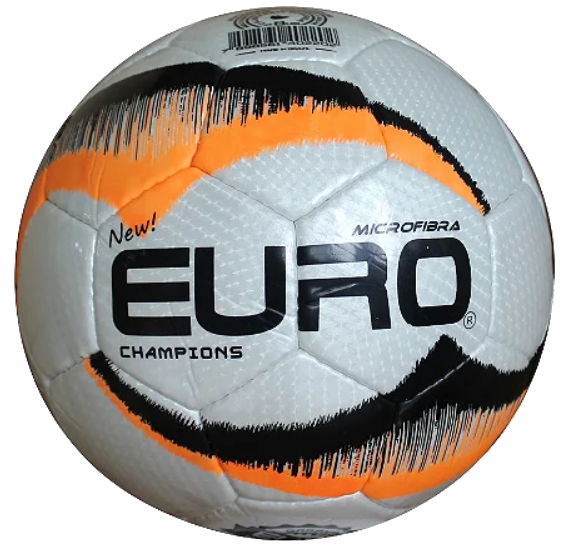
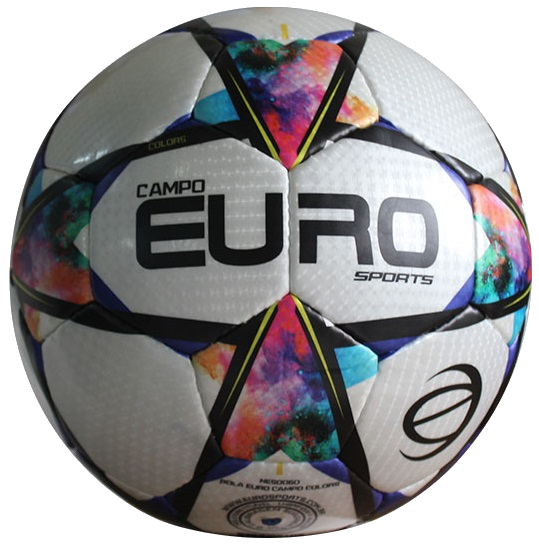
feature: update balls

diff --git a/src/data/data.js b/src/data/data.js
@@ -1,11 +1,11 @@
-import a1 from "../assets/images/EuroPro/a1.png";
 import l1 from "../assets/images/EuroPro/l1.png";
 import l3 from "../assets/images/EuroPro/l3.png";
 import r1 from "../assets/images/EuroPro/r1.png";
 import r2 from "../assets/images/EuroPro/r2.png";
 import v1 from "../assets/images/EuroPro/v1.png";
 import v2 from "../assets/images/EuroPro/v2.png";
-import micro from "../assets/images/EuroFibra/micro1.png";
+import micro1 from "../assets/images/EuroFibra/micro1.png";
+import micro2 from "../assets/images/EuroFibra/micro2.png";
 import I_fiesta_1 from "../assets/images/EuroInfinity/I_fiesta_1.png";
 import I_fiesta_2 from "../assets/images/EuroInfinity/I_fiesta_2.png";
 import I_onlympic_1 from "../assets/images/EuroInfinity/I_onlympic_1.png";
@@ -14,7 +14,6 @@ import n1 from "../assets/images/EuroRecreativa/n1.png";
 import n2 from "../assets/images/EuroRecreativa/n2.png";
 
 export const euroPro = [
-  { id: "1", image: a1 },
   { id: "3", image: l1 },
   { id: "4", image: l3 },
   { id: "5", image: r1 },
@@ -23,7 +22,10 @@ export const euroPro = [
   { id: "8", image: v2 },
 ];
 
-export const euroFibra = [{ id: "1", image: micro }];
+export const euroFibra = [
+  { id: "1", image: micro1 },
+  { id: "2", image: micro2 },
+];
 
 export const euroInfinity = [
   { id: "1", image: I_fiesta_1 },

diff --git a/src/pages/People.jsx b/src/pages/People.jsx
@@ -206,7 +206,7 @@ export const People = () => {
                     </Draggable>
                   ))
                 ) : (
-                  <p> Nenhum boleiro na lista</p>
+                  <p className="no__people"> Nenhum boleiro na lista</p>
                 )}
                 {provided.placeholder}
               </ol>

diff --git a/src/styles/styledPeople.js b/src/styles/styledPeople.js
@@ -72,6 +72,7 @@ export const StyledMain = styled.main`
   }
 
   p {
+    text-align: center;
     color: #fff;
     text-shadow: 1px 1px 0 #000, -1px 1px 0 #000, 1px -1px 0 #000,
       -1px -1px 0 #000;
